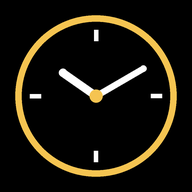
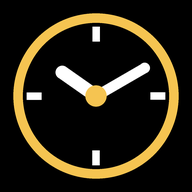
Add files via upload

diff --git a/index.html b/index.html
@@ -10,45 +10,79 @@
 <meta name="apple-mobile-web-app-capable" content="yes"/>
 <meta name="apple-mobile-web-app-status-bar-style" content="black"/>
 <meta name="apple-mobile-web-app-title" content="Jam WITA"/>
-<link rel="icon" type="image/png" href="icons/icon-192.png"/>
+<link rel="icon" href="favicon.ico" sizes="any"/>
+<link rel="icon" type="image/png" sizes="48x48" href="icons/icon-48.png"/>
+<link rel="icon" type="image/png" sizes="192x192" href="icons/icon-192.png"/>
+<meta name="msapplication-TileImage" content="icons/icon-144.png"/>
+<meta name="msapplication-TileColor" content="#000000"/>
 <link rel="apple-touch-icon" href="icons/apple-touch-icon.png"/>
 <style>
-  html, body { height: 100%; margin: 0; background: #000; color: #fff; }
+  :root { --w: min(92vw, 620px); }
+  html { background: #000; }
+  html, body { height: 100%; margin: 0; color: #fff; overflow: hidden; }
   body {
-    display: flex; flex-direction: column; align-items: center; justify-content: center;
-    text-align: center; padding: 24px 16px; box-sizing: border-box;
+    display: flex; flex-direction: column; align-items: center; justify-content: flex-start;
+    padding: max(8vh, 28px) 16px 24px; box-sizing: border-box;
     font-family: system-ui, -apple-system, "Segoe UI", Roboto, Arial, sans-serif;
   }
-  .timer {
-    display: grid; grid-template-columns: repeat(3, 1fr);
-    gap: clamp(8px, 2.5vw, 24px); width: 100%; max-width: 620px;
+
+  /* Latar: foto kucing (HP tegak: foto di bagian bawah, jam di atas) */
+  .bg {
+    position: fixed; inset: 0; z-index: -1;
+    background: #000 url("icons/bg-kucing.jpg") no-repeat 68% 100% / auto 72%;
+    -webkit-mask-image: linear-gradient(to bottom, transparent 27%, #000 52%);
+            mask-image: linear-gradient(to bottom, transparent 27%, #000 52%);
   }
+
+  .content { width: var(--w); text-align: center; }
+  .timer { display: grid; grid-template-columns: repeat(3, 1fr); gap: calc(var(--w) * .03); }
   .box {
-    border: 1px solid rgba(255,255,255,.3); border-radius: 14px;
-    padding: clamp(18px, 4.5vw, 36px) 4px;
+    border: 1px solid rgba(255,255,255,.4); border-radius: 14px;
+    background: rgba(0,0,0,.5);
+    -webkit-backdrop-filter: blur(8px); backdrop-filter: blur(8px);
+    padding: calc(var(--w) * .06) 4px;
+    box-shadow: 0 6px 24px rgba(0,0,0,.45);
   }
   .num {
-    font-size: clamp(2.6rem, 14vw, 6rem); font-weight: 700; line-height: 1;
-    font-variant-numeric: tabular-nums;
+    font-size: calc(var(--w) * .15); font-weight: 700; line-height: 1;
+    font-variant-numeric: tabular-nums; text-shadow: 0 2px 10px rgba(0,0,0,.6);
   }
   .lbl {
-    font-size: clamp(.7rem, 2.6vw, 1rem); opacity: .8;
-    margin-top: 12px; letter-spacing: .12em;
+    font-size: calc(var(--w) * .035); opacity: .9;
+    margin-top: calc(var(--w) * .025); letter-spacing: .12em;
   }
   .date {
-    margin-top: clamp(28px, 6vh, 52px);
-    font-size: clamp(1.3rem, 6.5vw, 2.6rem); font-weight: 800;
+    margin-top: calc(var(--w) * .07);
+    font-size: calc(var(--w) * .068); font-weight: 800;
     letter-spacing: .06em; line-height: 1.3; color: #f5c451; text-wrap: balance;
+    text-shadow: 0 2px 14px rgba(0,0,0,.9), 0 0 4px rgba(0,0,0,.8);
+  }
+
+  /* Layar lebar / HP miring: foto penuh, jam di kiri agar kucing tetap terlihat */
+  @media (orientation: landscape) {
+    :root { --w: min(560px, 46vw, 78vh * 1.3); }
+    body { align-items: flex-start; justify-content: center; padding: 24px 0 24px clamp(20px, 6vw, 96px); }
+    .bg {
+      background-size: cover; background-position: 68% 50%;
+      -webkit-mask-image: none; mask-image: none;
+    }
+    .bg::after {
+      content: ""; position: absolute; inset: 0;
+      background: linear-gradient(90deg, rgba(0,0,0,.7) 0%, rgba(0,0,0,.35) 45%, rgba(0,0,0,0) 80%);
+    }
   }
 </style>
 </head>
 <body>
-  <div class="timer">
-    <div class="box"><div class="num" id="hh">00</div><div class="lbl">JAM</div></div>
-    <div class="box"><div class="num" id="mm">00</div><div class="lbl">MENIT</div></div>
-    <div class="box"><div class="num" id="ss">00</div><div class="lbl">DETIK</div></div>
+  <div class="bg"></div>
+  <div class="content">
+    <div class="timer">
+      <div class="box"><div class="num" id="hh">00</div><div class="lbl">JAM</div></div>
+      <div class="box"><div class="num" id="mm">00</div><div class="lbl">MENIT</div></div>
+      <div class="box"><div class="num" id="ss">00</div><div class="lbl">DETIK</div></div>
+    </div>
+    <div class="date" id="date"></div>
   </div>
-  <div class="date" id="date"></div>
 <script>
   // Selalu memakai zona waktu Asia/Makassar (WITA, GMT+8), apa pun pengaturan perangkat
   var timeFmt = new Intl.DateTimeFormat("id-ID", {

diff --git a/sw.js b/sw.js
@@ -1,13 +1,21 @@
 // Service Worker - Jam WITA
 // Ubah angka versi saat file diperbarui agar cache lama dibuang
-const CACHE = "jam-wita-v1";
+const CACHE = "jam-wita-v3";
 const ASSETS = [
   "./index_jam.html",
   "./manifest.json",
+  "./favicon.ico",
+  "./icons/icon-48.png",
+  "./icons/icon-72.png",
+  "./icons/icon-96.png",
+  "./icons/icon-144.png",
   "./icons/icon-192.png",
+  "./icons/icon-256.png",
+  "./icons/icon-384.png",
   "./icons/icon-512.png",
   "./icons/icon-maskable-512.png",
-  "./icons/apple-touch-icon.png"
+  "./icons/apple-touch-icon.png",
+  "./icons/bg-kucing.jpg"
 ];
 
 self.addEventListener("install", (e) => {
